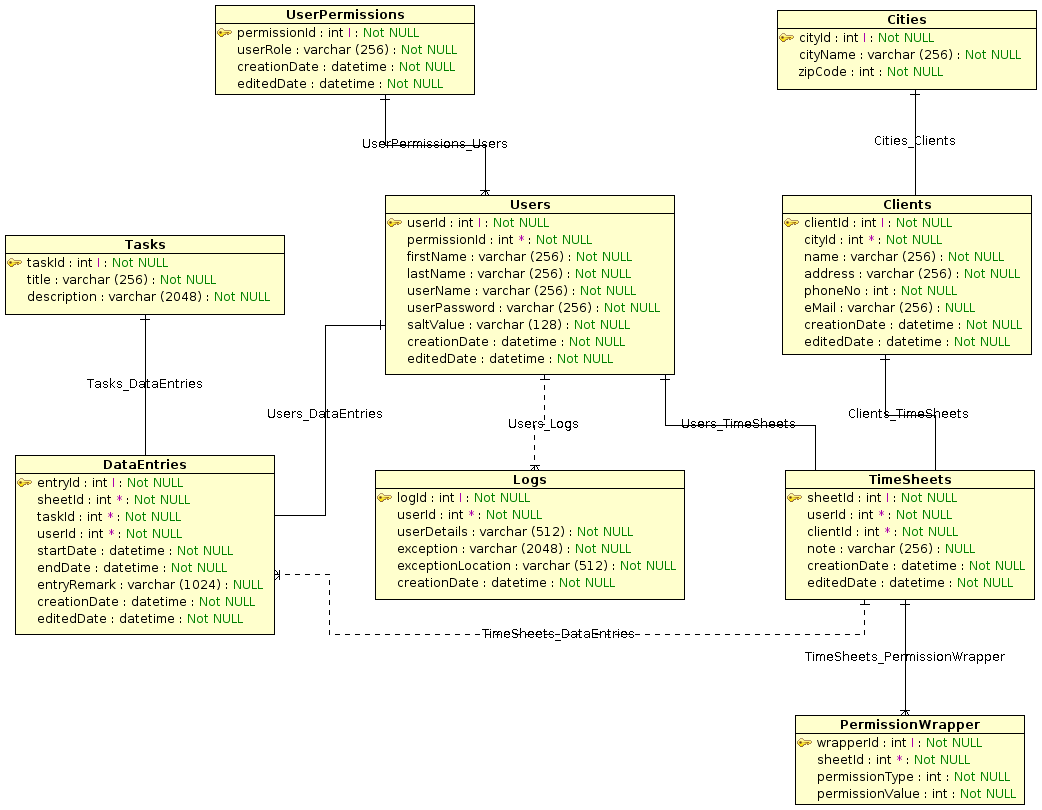
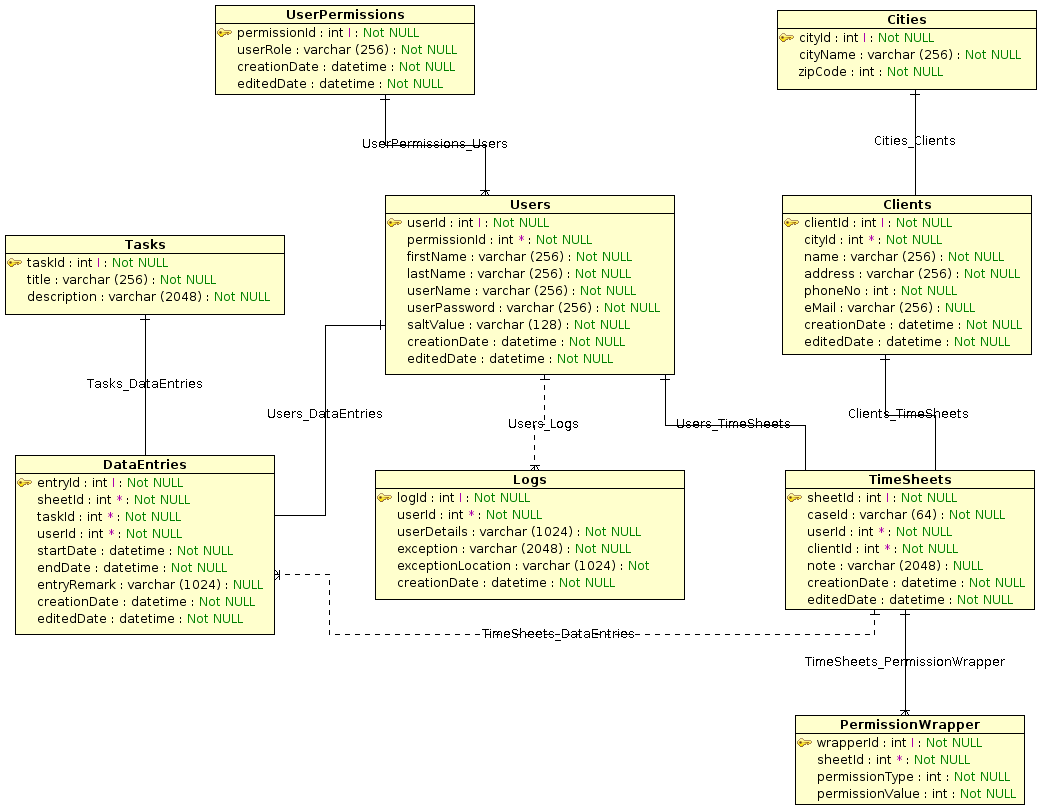
Fixed datatype on caseId

Changed region(s): [[0.737, 0.6173, 1.0, 0.7716], [0.7678, 0.8025, 0.952, 0.8333], [0.5221, 0.6481, 0.6449, 0.7099]]

diff --git a/src/models/TimeSheet.java b/src/models/TimeSheet.java
@@ -5,18 +5,23 @@ import java.util.Date;
 public class TimeSheet
 {
 	private int _sheetId;
+	private String _caseId;
 	private User _user;
 	private Client _client;
 	private ArrayList<DataEntry> _dataEntries;
 	private String _note;
 	private Date _creationDate;
 	private Date _editedDate;
-	private int _caseId;
 
 	public int getSheetId()
 	{ return _sheetId; }
 	public void setSheetId(int sheetId)
 	{ _sheetId = sheetId; }
+	
+	public String getCaseId()
+	{ return _caseId; }
+	public void setCaseId(String caseId)
+	{ _caseId = caseId; }
 
 	public User getUser()
 	{ return _user; }
@@ -47,15 +52,10 @@ public class TimeSheet
 	{ return _editedDate; }
 	public void setEditedDate(Date editedDate)
 	{ _editedDate = editedDate; }
-	
-	public int getCaseId()
-	{ return _caseId; }
-	public void setCaseId(int caseId)
-	{ _caseId = caseId; }
 	// end getters and setters
 	
 
-	public TimeSheet(int sheetId, int caseId, User user, Client client, String note, Date createdDate, Date editedDate)
+	public TimeSheet(int sheetId, String caseId, User user, Client client, String note, Date createdDate, Date editedDate)
 	{
 		_sheetId = sheetId;
         _caseId = caseId;
@@ -68,7 +68,7 @@ public class TimeSheet
 	}
 
 	
-	public TimeSheet(int caseId, User user, Client client, String note, Date createdDate, Date editedDate)
+	public TimeSheet(String caseId, User user, Client client, String note, Date createdDate, Date editedDate)
 	{
         _caseId = caseId;
 		_user = user;

diff --git a/src/db/DBTimeSheet.java b/src/db/DBTimeSheet.java
@@ -187,7 +187,7 @@ public class DBTimeSheet implements IFDBTimeSheet
 		    return 0;
 		
 		PreparedStatement query = _da.getCon().prepareStatement("INSERT INTO TimeSheets (caseId, userId, clientId, note, creationDate, editedDate) VALUES (?, ?, ?, ?, ?, ?)");
-        query.setInt(1, timeSheet.getCaseId());
+        query.setString(1, timeSheet.getCaseId());
 		query.setInt(2, timeSheet.getUser().getUserId());
 		query.setInt(3, timeSheet.getClient().getClientId());
 		query.setString(4, timeSheet.getNote());
@@ -212,7 +212,7 @@ public class DBTimeSheet implements IFDBTimeSheet
 			return 0;
 		
 		PreparedStatement query = _da.getCon().prepareStatement("UPDATE TimeSheets SET caseId = ?, userId = ?, clientId = ?, note = ?, creationDate = ?, editedDate = ? WHERE sheetId = ?");
-        query.setInt(1, timeSheet.getCaseId());
+        query.setString(1, timeSheet.getCaseId());
         query.setInt(2, timeSheet.getUser().getUserId());
 		query.setInt(3, timeSheet.getClient().getClientId());
 		query.setString(4, timeSheet.getNote());
@@ -256,7 +256,7 @@ public class DBTimeSheet implements IFDBTimeSheet
         DBClient dbc = new DBClient();
 
 		int sheetId = row.getInt("sheetId");
-        int caseId = row.getInt("caseId");
+        String caseId = row.getString("caseId");
 		User user = dbu.getUserById(row.getInt("userId"));
 		Client client = dbc.getClientById(row.getInt("clientId"));	
 		String note = row.getString("note");
